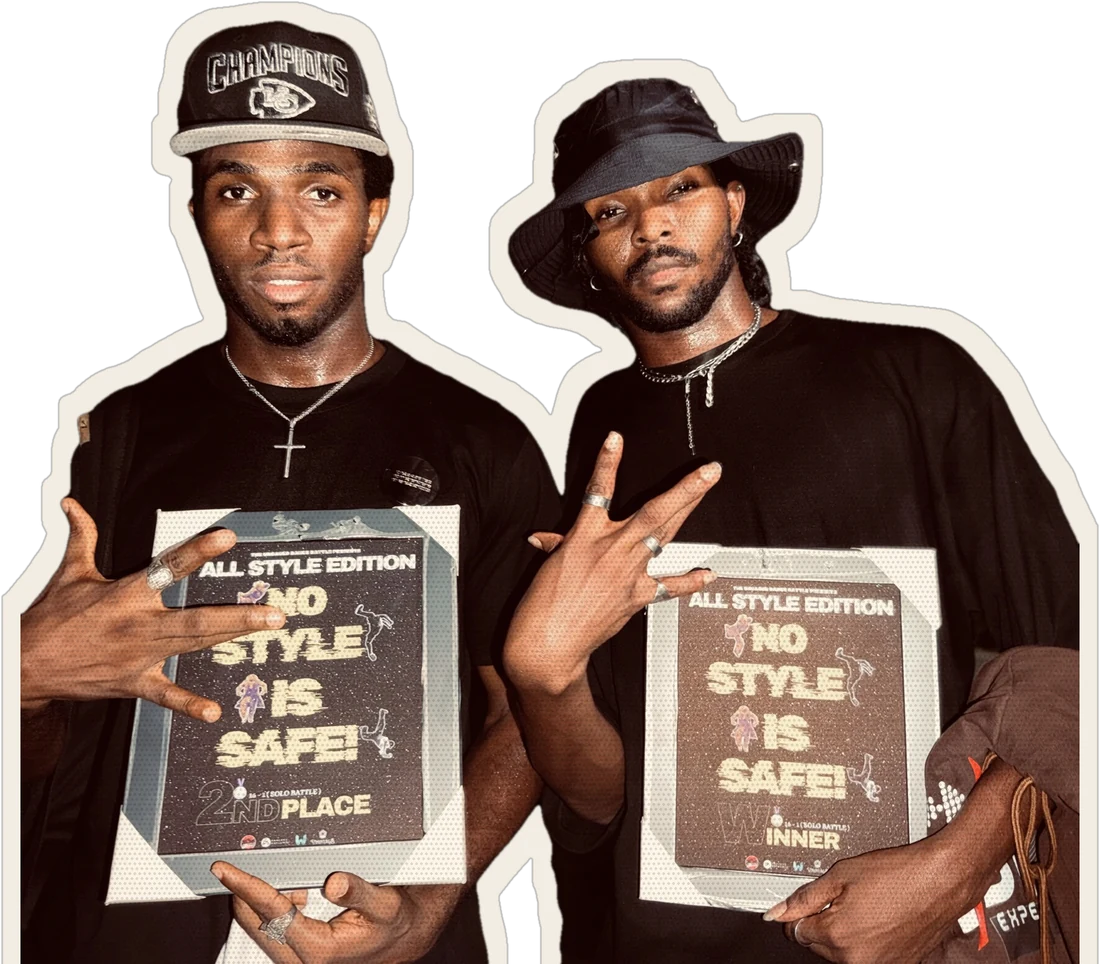
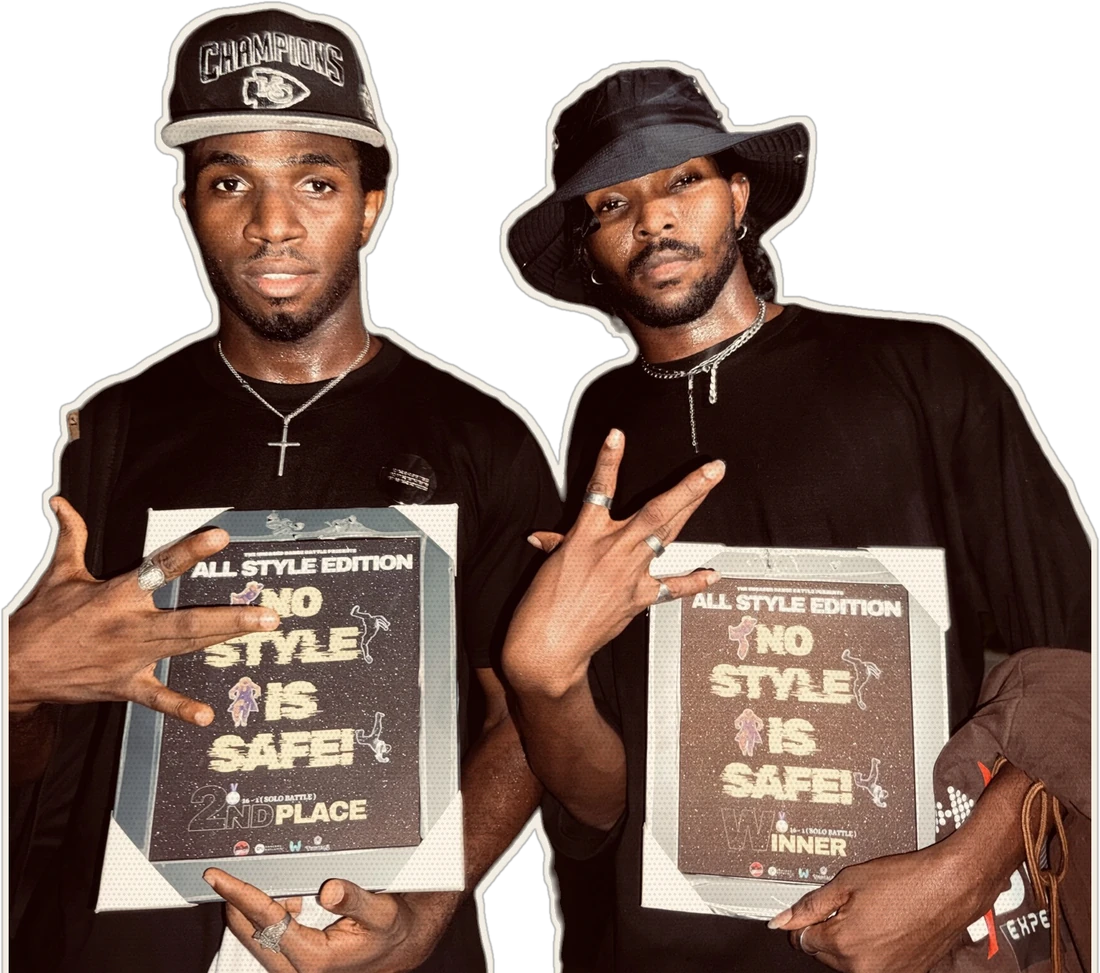
Thin sticker outlines and keep cutouts from covering photos
Claude-Session: https://claude.ai/code/session_01FC8Wrwdp5P8vu4to9NjHsX

Changed region(s): [[0.0, 0.0, 1.0, 1.0], [0.5255, 0.7158, 0.5564, 0.7469], [0.5255, 0.6535, 0.5564, 0.6846]]

diff --git a/styles.css b/styles.css
@@ -470,20 +470,21 @@ a:focus-visible, button:focus-visible { outline: 2px solid var(--coral); outline
 .night__title { font-family: var(--display); font-weight: 400; text-transform: uppercase; font-size: clamp(2.8rem, 8vw, 6.5rem); line-height: .9; position: relative; z-index: 1; }
 .night__title span { color: var(--coral); }
 .night__stage { position: relative; display: grid; grid-template-columns: repeat(12, minmax(0, 1fr)); align-items: end; }
-.night__stage--one { margin-top: clamp(-2rem, -3vw, -1rem); }
-.night__stage--one .night__photo--wide { grid-column: 1 / 9; grid-row: 1; }
+.night__stage--one { margin-top: clamp(1.5rem, 3vw, 2.5rem); }
+.night__stage--one { column-gap: clamp(1rem, 3vw, 2.5rem); }
+.night__stage--one .night__photo--wide { grid-column: 1 / 8; grid-row: 1; position: relative; z-index: 1; }
 .night__photo .frame { aspect-ratio: 4/3; }
 .night__stage--two .night__photo .frame { aspect-ratio: 3/4; }
 .night__sticker { position: relative; z-index: 3; margin: 0; }
 .night__sticker img { width: 100%; filter: drop-shadow(0 18px 22px rgba(0,0,0,.55)) drop-shadow(0 2px 2px rgba(0,0,0,.4)); }
-.night__sticker--solo { grid-column: 6 / 13; grid-row: 1; transform: rotate(-3deg) translateY(8%); transform-origin: bottom center; }
+.night__sticker--solo { grid-column: 8 / 13; grid-row: 1; transform: rotate(-2deg); transform-origin: bottom center; }
 .night__tag { position: absolute; left: 6%; bottom: 10%; background: var(--coral); color: var(--ink); font-weight: 700; font-size: .85rem; padding: .45rem 1rem; border-radius: 999px; transform: rotate(-4deg); box-shadow: 0 10px 20px -8px rgba(0,0,0,.6); white-space: nowrap; }
-.night__tape { grid-column: 1 / 13; grid-row: 1; align-self: center; z-index: 2; margin: 0 -50vw; background: #f2c230; color: var(--ink); transform: rotate(-4deg); overflow: hidden; white-space: nowrap; padding: .55rem 0; pointer-events: none; box-shadow: 0 12px 30px -10px rgba(0,0,0,.6); }
+.night__tape { grid-column: 1 / 13; grid-row: 1; align-self: center; z-index: 0; margin: 0 -50vw; background: #f2c230; color: var(--ink); transform: rotate(-4deg); overflow: hidden; white-space: nowrap; padding: .55rem 0; pointer-events: none; box-shadow: 0 12px 30px -10px rgba(0,0,0,.6); }
 .night__tape span { display: inline-block; font-weight: 700; letter-spacing: .25em; font-size: .8rem; animation: marquee 40s linear infinite; }
 .night__stage--two { margin-top: clamp(3rem, 6vw, 5rem); gap: 0 clamp(1rem, 2.5vw, 1.75rem); }
-.night__stage--two .night__photo:nth-of-type(2) { grid-column: 6 / 9; grid-row: 1; }
-.night__stage--two .night__photo:nth-of-type(3) { grid-column: 9 / 13; grid-row: 1; transform: translateY(-2.5rem); }
-.night__sticker--duo { grid-column: 1 / 7; grid-row: 1; transform: rotate(2.5deg); margin-right: -3%; z-index: 4; }
+.night__stage--two .night__photo:nth-of-type(2) { grid-column: 7 / 10; grid-row: 1; }
+.night__stage--two .night__photo:nth-of-type(3) { grid-column: 10 / 13; grid-row: 1; transform: translateY(-2.5rem); }
+.night__sticker--duo { grid-column: 1 / 7; grid-row: 1; transform: rotate(2deg); z-index: 4; }
 .night__sticker--duo .night__tag { left: auto; right: 8%; transform: rotate(3deg); }
 
 .flyer-link { display: grid; grid-template-columns: 110px minmax(0, 1fr); gap: 1.4rem; align-items: center; margin-top: clamp(3rem, 6vw, 4.5rem); max-width: 620px; padding: 1rem; border: 1px solid var(--line); border-radius: 18px; background: var(--ink-2); transition: border-color .3s, transform .3s; }
@@ -518,7 +519,7 @@ a:focus-visible, button:focus-visible { outline: 2px solid var(--coral); outline
   .plaques__grid--3, .plaques__grid--2 { grid-template-columns: repeat(2, minmax(0, 1fr)); }
   .plaques__grid--3 .plaque--winner { grid-column: 1 / -1; max-width: 300px; justify-self: center; width: 100%; }
   .night__stage--one .night__photo--wide { grid-column: 1 / 13; }
-  .night__sticker--solo { grid-column: 2 / 13; grid-row: 2; margin-top: -18%; transform: rotate(-3deg); }
+  .night__sticker--solo { grid-column: 2 / 12; grid-row: 2; margin-top: 2.5rem; transform: rotate(-2deg); }
   .night__tape { grid-row: 2; align-self: start; margin-top: 2rem; }
   .night__stage--two .night__photo:nth-of-type(2) { grid-column: 1 / 7; grid-row: 2; }
   .night__stage--two .night__photo:nth-of-type(3) { grid-column: 7 / 13; grid-row: 2; transform: none; }
